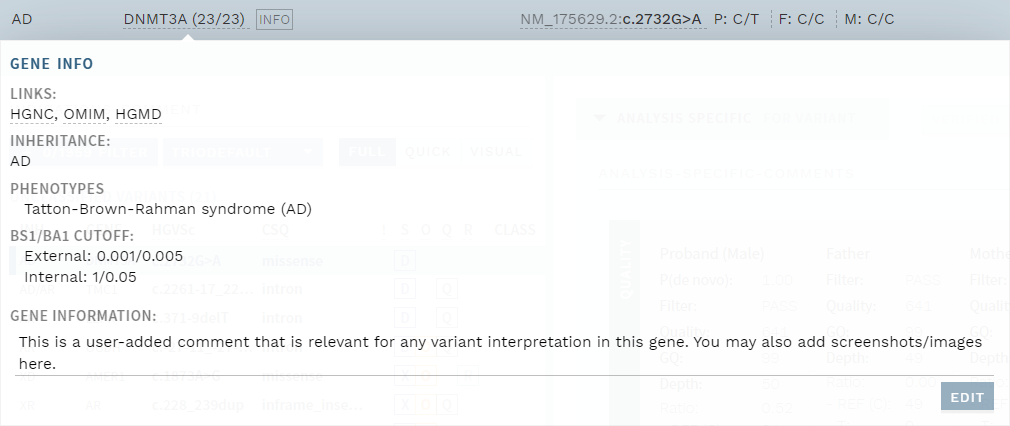
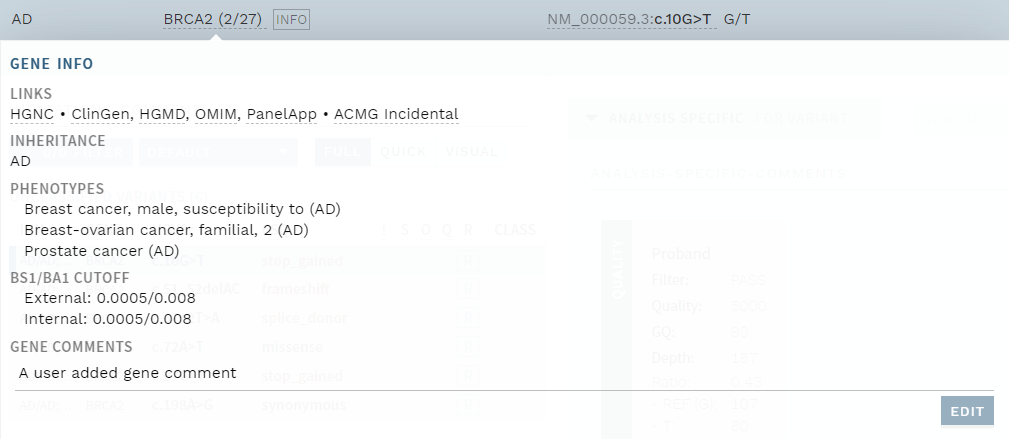
[docs] Updated release notes and manual for !435 and !444

diff --git a/docs/manual/top-bar.md b/docs/manual/top-bar.md
@@ -53,9 +53,9 @@ LINKS | Click to go to corresponding gene information pages from external resour
 INHERITANCE | Inheritance mode, specified in the gene panel. | [Gene panels](/technical/genepanels.html#gene-panels)
 PHENOTYPES | Associated phenotypes, specified in the gene panel. | [Gene panels](/technical/genepanels.html#gene-panels)
 BS1/BA1 CUTOFF | Frequency thresholds for automatic suggestions of the corresponding ACMG-AMP criteria (divided by external and internal database). | [User group-specific ACMG rules](/technical/acmg.html#user-group-rules)
-GENE INFORMATION | User-added gene information. | (see below)
+GENE COMMENTS | User-added gene information. | (see below)
 
-The GENE INFORMATION field is editable; click the `EDIT` button and `UPDATE` when you have made changes. If a comment has been added, an `INFO` tag is shown next to the gene name. 
+The GENE COMMENTS field is editable; click the `EDIT` button and `UPDATE` when you have made changes. If a comment has been added, an `INFO` tag is shown next to the gene name. 
 
 ::: warning NOTE
 In the current iteration, no collision warnings will be shown if another user is editing the information at the same time, and there is a risk for overwriting each other's work if this happens. 

diff --git a/docs/releasenotes/README.md b/docs/releasenotes/README.md
@@ -6,10 +6,27 @@ title: Latest releases
 
 |Major versions|Minor versions|
 |:--|:--|
+[v1.12](#version-1-12)|
 [v1.11](#version-1-11)|[v1.11.1](#version-1-11-1), [v1.11.2](#version-1-11-2), [v1.11.3])(#version-1-11-3)
 [v1.10](#version-1-10)|[v1.10.1](#version-1-10-1)
 
 See [older releases](/releasenotes/olderreleases.md) for earlier versions.
+
+## Version 1.12
+
+Release date: TBD
+
+### Highlights
+
+Highlights ...
+
+### All changes
+
+<!-- MR !435 -->
+- Added more external links in the gene information popup (ClinGen, PanelApp and ACMG incidental findings)
+<!-- MR !444 -->
+- Made allele list in top bar scrollable when number of transcripts exceed 3. 
+
 
 ## Version 1.11.3
 

diff --git a/docs/README.md b/docs/README.md
@@ -7,7 +7,7 @@ sidebar: false
 		<img width="350px;" src="./ella-docs_blue.svg">
 	</div>
 	<br>
-	<div style="font-size: 80%;">v1.11.3 | 11.11.2020</div>
+	<div style="font-size: 80%;">v1.12 | TBD</div>
 </div>
 
 ## Contents
